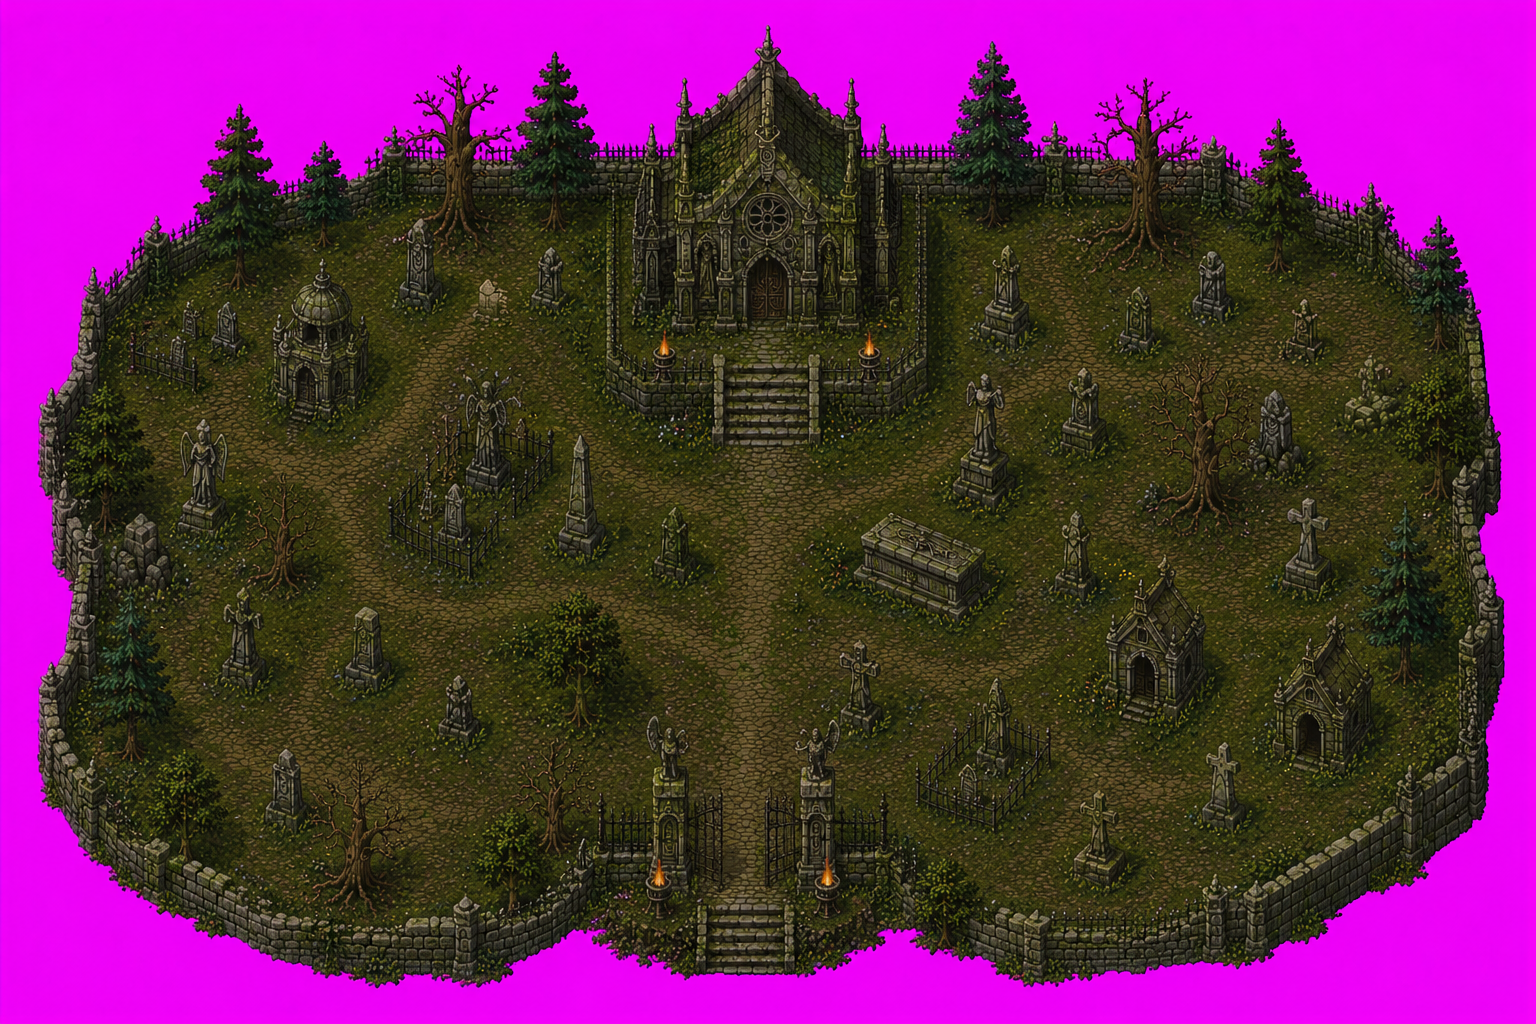
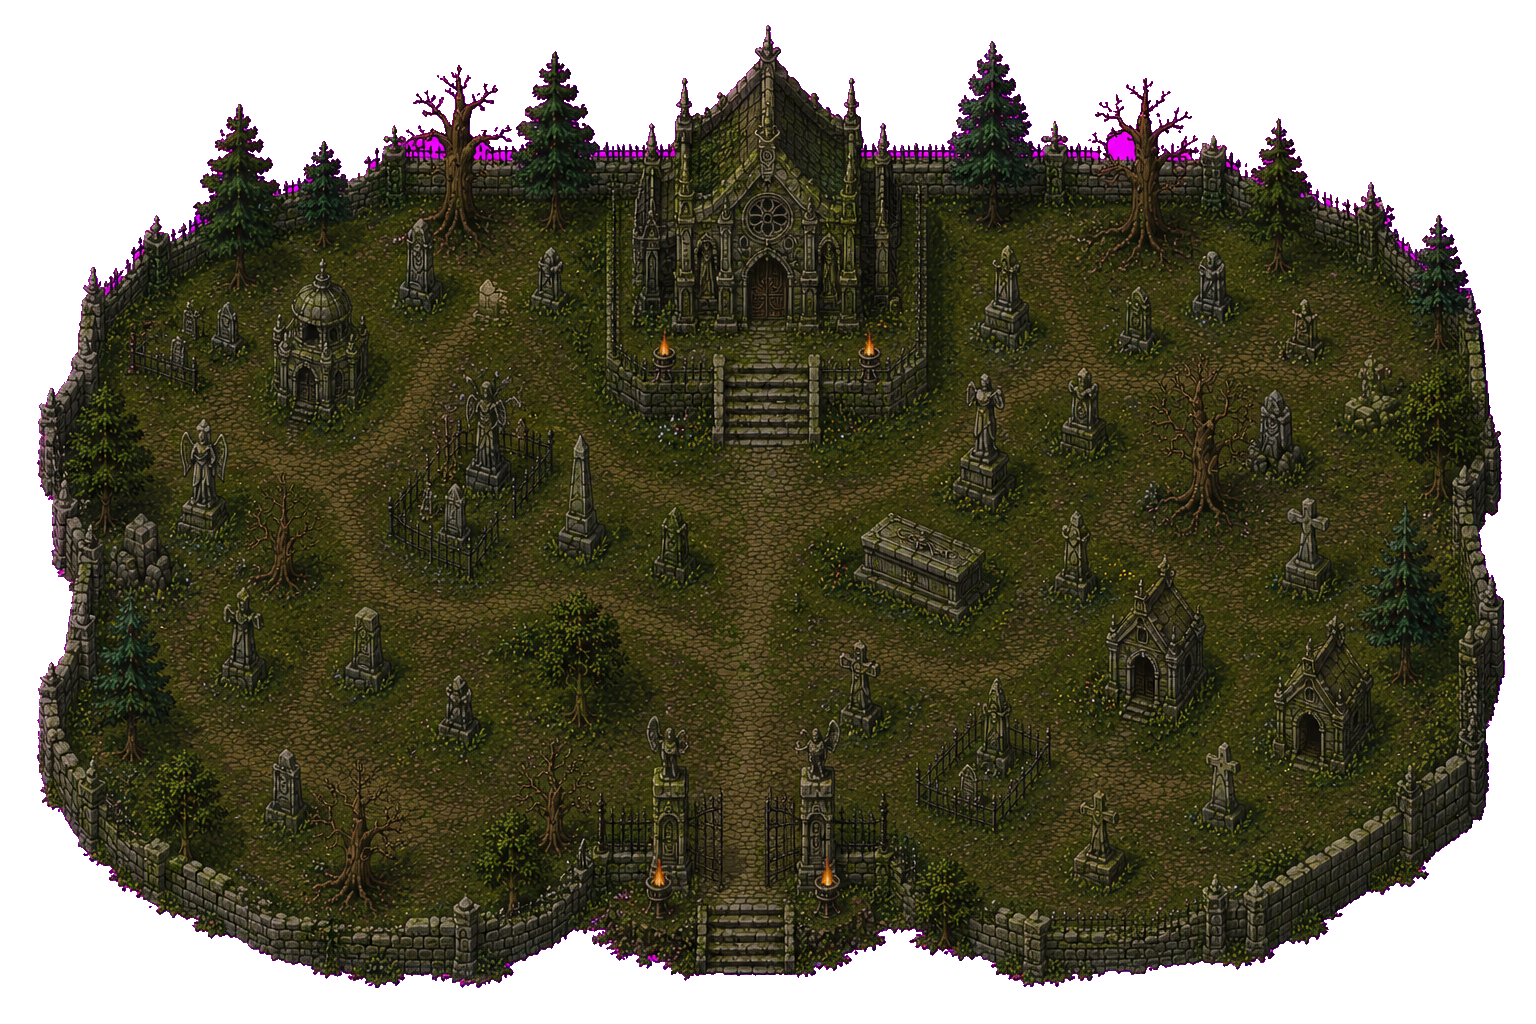
v0.13.2 — magenta, iniciativa, saltar turno y objetos sin conectar
- Arreglado el fondo magenta del cementerio (margen sin pintar)
- Bajada la barra de iniciativa para que no se solape con el botón de reiniciar
- Saltar turno avisa siempre y no se puede pulsar dos veces mientras actúan los NPCs
- Rehecho el botón "Saltar turno" sin deformación
- Conectados 7 objetos del cementerio que no tenían evento (las trampas podían romper la partida)
- Quitado el nombre "Mercenaria"; barra de vida más grande

Changed region(s): [[0.0, 0.0, 1.0, 1.0]]

diff --git a/js/rules.js b/js/rules.js
@@ -1,13 +1,13 @@
 // Reglas del juego: economía de Puntos de Acción (PA), interacción a distancia
 // y adyacente, trampas, niebla y salida de nivel. Agnóstico del dibujo.
 
-import { state, walkable, adjacent, distTo, isVisible, recomputeFog, computeReach, pathTo, reachCost, blockingTriggerAt, trapAt, walkTriggerAt, stepNeighbors, foeAt, livingFoes, losClear } from './state.js?v=0.13.1';
-import { openEvent, openTrapCard, openStoryCard, syncHUD, syncInitiativeUI, showCombatBadge, log, gameOver } from './ui.js?v=0.13.1';
-import { t } from './i18n.js?v=0.13.1';
-import { MOVE_COST, ATTACK_COST, INITIATIVE_BASE, INITIATIVE_DIE, TURN_DELAY } from './config.js?v=0.13.1';
-import * as anim from './anim.js?v=0.13.1';
-import { ANIM_CLIPS } from './anim.js?v=0.13.1';
-import * as audio from './audio.js?v=0.13.1';
+import { state, walkable, adjacent, distTo, isVisible, recomputeFog, computeReach, pathTo, reachCost, blockingTriggerAt, trapAt, walkTriggerAt, stepNeighbors, foeAt, livingFoes, losClear } from './state.js?v=0.13.2';
+import { openEvent, openTrapCard, openStoryCard, syncHUD, syncInitiativeUI, showCombatBadge, log, gameOver } from './ui.js?v=0.13.2';
+import { t } from './i18n.js?v=0.13.2';
+import { MOVE_COST, ATTACK_COST, INITIATIVE_BASE, INITIATIVE_DIE, TURN_DELAY } from './config.js?v=0.13.2';
+import * as anim from './anim.js?v=0.13.2';
+import { ANIM_CLIPS } from './anim.js?v=0.13.2';
+import * as audio from './audio.js?v=0.13.2';
 
 const sign = (n) => Math.sign(n);
 
@@ -122,14 +122,18 @@ function showHint(tr) {
   audio.fx('ui');
 }
 
-// Una trampa se activa sola al pisarla si no ha sido desarmada antes.
+// Una trampa se activa sola al pisarla si no ha sido desarmada antes. Si por
+// lo que sea no tiene un evento conectado en events.json, usa un daño por
+// defecto y un aviso genérico en vez de reventar (mismo criterio que ya se
+// aplica a los objetos "mueble" sin evento).
 function triggerTrap(trap) {
   const ev = state.events[trap.id];
-  const dmg = ev.trapDmg || 4;
+  const dmg = (ev && ev.trapDmg) || 4;
   trap.used = true;
   anim.hurt('hero', 'hero'); anim.floatAt(state.hero.x, state.hero.y, `−${dmg}`, '#e86a5c'); audio.fx('hurt');
   state.hero.hp -= dmg;
-  log(`<b>${t(ev.i18n + '.kicker')}</b> — ${t(ev.i18n + '.text')}`);
+  if (ev) log(`<b>${t(ev.i18n + '.kicker')}</b> — ${t(ev.i18n + '.text')}`);
+  else log(t('log.noEventYet'));
   syncHUD();
   if (state.hero.hp <= 0) gameOver('lose');
 }
@@ -162,19 +166,21 @@ function revealTrapsNear(x, y) {
 export function attemptDisarm(trap) {
   const { hero } = state;
   const ev = state.events[trap.id];
-  const cost = ev.actionCost || 1;
+  const cost = (ev && ev.actionCost) || 1;
   if (hero.ap < cost) { log(t('log.noAP')); state.busy = false; return; }
   hero.ap -= cost; syncHUD();
   anim.activateAnim('hero', 'hero');
   if (Math.random() < 0.5) {
     trap.used = true;
     audio.fx('ui');
-    log(`<b>${t(ev.i18n + '.kicker')}</b> — ${t(ev.i18n + '.disarmSuccess')}`);
+    if (ev) log(`<b>${t(ev.i18n + '.kicker')}</b> — ${t(ev.i18n + '.disarmSuccess')}`);
+    else log(t('log.noEventYet'));
   } else {
-    const dmg = Math.round((ev.trapDmg || 4) / 2);
+    const dmg = Math.round(((ev && ev.trapDmg) || 4) / 2);
     anim.hurt('hero', 'hero'); anim.floatAt(hero.x, hero.y, `−${dmg}`, '#e86a5c'); audio.fx('hurt');
     hero.hp -= dmg;
-    log(`<b>${t(ev.i18n + '.kicker')}</b> — ${t(ev.i18n + '.disarmFail', { dmg })}`);
+    if (ev) log(`<b>${t(ev.i18n + '.kicker')}</b> — ${t(ev.i18n + '.disarmFail', { dmg })}`);
+    else log(t('log.noEventYet'));
   }
   syncHUD();
   state.busy = false;

diff --git a/css/styles.css b/css/styles.css
@@ -21,10 +21,9 @@ body{
   display:flex; flex-direction:column; gap:6px; width:max-content; }
 .hudrow{ display:flex; gap:8px; align-items:stretch; padding:8px 10px;
   background:rgba(26,30,39,.82); border:1px solid var(--steel); border-radius:6px; backdrop-filter:blur(3px); cursor:pointer; }
-.hud .who{ display:flex; flex-direction:column; gap:4px; min-width:92px; }
-.hud .name{ font-size:11px; letter-spacing:.12em; text-transform:uppercase; color:var(--bone-dim); }
+.hud .who{ display:flex; flex-direction:column; justify-content:center; gap:4px; min-width:110px; }
 .bar{ height:9px; border-radius:2px; background:#000; overflow:hidden; border:1px solid #000; position:relative; }
-.bar.hero{ height:14px; background:#000 url(../assets/ui/bar_hp_hero.png) center/100% 100% no-repeat; border:none; }
+.bar.hero{ height:26px; background:#000 url(../assets/ui/bar_hp_hero.png) center/100% 100% no-repeat; border:none; }
 .bar.foe { background:#000 url(../assets/ui/bar_hp_foe.png) center/100% 100% no-repeat; border:none; }
 .bar > span{ display:block; height:100%; transition:width .25s ease; }
 /* La barra siempre muestra el arte completo (cuero+metal+relleno rojo); lo que
@@ -36,6 +35,7 @@ body{
   background:linear-gradient(to left, rgba(3,4,7,.95), rgba(3,4,7,.55)); }
 .bar .hptext{ position:absolute; inset:0; display:flex; align-items:center; justify-content:center; background:none;
   font-size:9px; line-height:1; color:#fff; text-shadow:0 1px 1px rgba(0,0,0,.85); pointer-events:none; }
+.bar.hero .hptext{ font-size:14px; font-weight:600; }
 .stat{ display:flex; align-items:center; gap:5px; font-size:13px; padding-left:10px; border-left:1px solid var(--steel); }
 .stat b{ color:var(--gold); font-weight:600; }
 .goldIcon{ width:16px; height:16px; object-fit:contain; }
@@ -44,17 +44,22 @@ body{
 .pip.on{ background-image:url(../assets/ui/pip_on.png); }
 
 /* Botón de turno: justo debajo de la vida, ancho completo del HUD. El asset
-   (skipturn_bar.png) tiene un remate ornamentado en los extremos y una parte
-   central lisa; con "background-size:100% 100%" el remate se deformaba (se
-   veía estirado/aplastado, sobre todo a la izquierda). Con border-image en
-   3 partes, los extremos mantienen su proporción y solo la parte central
-   lisa se estira para rellenar el ancho que haga falta. */
-.skipturn{ width:100%; color:var(--bone);
+   (skipturn_bar.png) tiene un remate ornamentado en cada extremo y una parte
+   central lisa. Con "background-size:100% 100%" el remate se deformaba (se
+   veía estirado/aplastado). Con border-image tampoco quedó del todo bien.
+   Solución robusta: dos pseudo-elementos (uno por extremo) con la imagen
+   ENTERA escalada una sola vez, preservando su proporción real, a la altura
+   del botón — cada uno solo "asoma" su propia ventana de 38px por su lado
+   (izquierda/derecha), así que el remate nunca se deforma, mires donde mires.
+   El centro se queda como placa lisa (el texto no necesita más adorno ahí). */
+.skipturn{ position:relative; width:100%; color:var(--bone);
   background:linear-gradient(rgba(9,10,14,.35),rgba(9,10,14,.35));
-  border-style:solid; border-color:transparent; border-width:0 34px;
-  border-image:url(../assets/ui/skipturn_bar.png) fill 0 110 0 110 / 0 34px / 0 stretch;
-  border-radius:6px; backdrop-filter:blur(3px);
-  font:inherit; font-size:12.5px; letter-spacing:.04em; padding:8px 10px; cursor:pointer; }
+  border:1px solid rgba(70,55,30,.8); border-radius:6px; backdrop-filter:blur(3px);
+  font:inherit; font-size:12.5px; letter-spacing:.04em; padding:8px 46px; cursor:pointer; }
+.skipturn::before, .skipturn::after{ content:''; position:absolute; top:1px; bottom:1px; width:38px;
+  background-image:url(../assets/ui/skipturn_bar.png); background-repeat:no-repeat; background-size:auto 100%; }
+.skipturn::before{ left:1px; background-position:left center; border-radius:5px 0 0 5px; }
+.skipturn::after{ right:1px; background-position:right center; border-radius:0 5px 5px 0; }
 .skipturn:hover{ border-color:var(--ember); color:var(--ember); }
 
 /* Cajas individuales de vida de enemigo, una por enemigo vivo, bajo "Fin de turno". */
@@ -97,7 +102,7 @@ body.layout-edit .layoutApplyBtn{ display:block; }
 
 /* Barra de iniciativa: retratos en fila horizontal, arriba a la derecha,
    debajo del botón de reiniciar. El que le toca actuar se resalta. */
-.initiativeBar{ top:calc(max(10px,env(safe-area-inset-top)) + 42px); right:10px;
+.initiativeBar{ top:calc(max(10px,env(safe-area-inset-top)) + 72px); right:10px;
   display:none; gap:5px; padding:5px; background:rgba(26,30,39,.82); border:1px solid var(--steel);
   border-radius:6px; backdrop-filter:blur(3px); }
 .initiativeBar.show{ display:flex; }

diff --git a/js/main.js b/js/main.js
@@ -1,15 +1,15 @@
 // Punto de entrada. Carga idioma y datos, cablea módulos y arranca el bucle.
 
-import { state, initGame } from './state.js?v=0.13.1';
-import { initRenderer, startLoop, centerOnHero, toggleGrid, isGridOn } from './render.js?v=0.13.1';
-import { onTapTile, bindDescend, startHeroTurn, endHeroTurn, afterInteract, attemptDisarm } from './rules.js?v=0.13.1';
-import { syncHUD, log, hideVeil, bindAfterInteract, bindRestart, bindAttemptDisarm, applyStaticText } from './ui.js?v=0.13.1';
-import { loadAssets } from './assets.js?v=0.13.1';
-import { initialLang, loadLang, onLangChange, getLang, t } from './i18n.js?v=0.13.1';
-import * as anim from './anim.js?v=0.13.1';
-import * as audio from './audio.js?v=0.13.1';
-import { VERSION } from './config.js?v=0.13.1';
-import { assemble } from './mapgen.js?v=0.13.1';
+import { state, initGame } from './state.js?v=0.13.2';
+import { initRenderer, startLoop, centerOnHero, toggleGrid, isGridOn } from './render.js?v=0.13.2';
+import { onTapTile, bindDescend, startHeroTurn, endHeroTurn, afterInteract, attemptDisarm, isAITurnActive } from './rules.js?v=0.13.2';
+import { syncHUD, log, hideVeil, bindAfterInteract, bindRestart, bindAttemptDisarm, applyStaticText } from './ui.js?v=0.13.2';
+import { loadAssets } from './assets.js?v=0.13.2';
+import { initialLang, loadLang, onLangChange, getLang, t } from './i18n.js?v=0.13.2';
+import * as anim from './anim.js?v=0.13.2';
+import * as audio from './audio.js?v=0.13.2';
+import { VERSION } from './config.js?v=0.13.2';
+import { assemble } from './mapgen.js?v=0.13.2';
 
 // El ensamblador de losetas (mapgen.js) sigue disponible para niveles ALEATORIOS
 // futuros; esta función queda de reserva pero no se usa por ahora, ya que el
@@ -106,7 +106,7 @@ async function boot() {
   // --- controles ---
   document.getElementById('reset').addEventListener('click', newGame);
   document.getElementById('endTurn').addEventListener('click', () => {
-    if (!state.busy) endHeroTurn();
+    if (!state.busy && !isAITurnActive()) { log(t('log.turnSkipped')); endHeroTurn(); }
   });
   document.getElementById('recenter').addEventListener('click', () => centerOnHero(false));
   document.getElementById('hudRow').addEventListener('click', () => centerOnHero(false));

diff --git a/js/ui.js b/js/ui.js
@@ -1,13 +1,13 @@
 // Capa DOM: HUD (con PA), cartas de evento, registro, fin de partida y ajustes.
 // Todo el texto visible pasa por t() (multiidioma). No dibuja en el canvas.
 
-import { state } from './state.js?v=0.13.1';
-import { t } from './i18n.js?v=0.13.1';
-import * as anim from './anim.js?v=0.13.1';
-import { IDLE_NAME } from './anim.js?v=0.13.1';
-import * as audio from './audio.js?v=0.13.1';
-import { VERSION } from './config.js?v=0.13.1';
-import { images, SPRITE_TILE } from './assets.js?v=0.13.1';
+import { state } from './state.js?v=0.13.2';
+import { t } from './i18n.js?v=0.13.2';
+import * as anim from './anim.js?v=0.13.2';
+import { IDLE_NAME } from './anim.js?v=0.13.2';
+import * as audio from './audio.js?v=0.13.2';
+import { VERSION } from './config.js?v=0.13.2';
+import { images, SPRITE_TILE } from './assets.js?v=0.13.2';
 
 let afterInteract = () => {};
 let restart = () => {};
@@ -180,8 +180,9 @@ function renderStoryCard(card, ev) {
 }
 
 function renderTrapCard(card, trap) {
-  const ev = state.events[trap.id];
-  const b = ev.i18n;
+  const ev = state.events[trap.id] || state.events.trampa;
+  const b = ev ? ev.i18n : null;
+  if (!b) { card.innerHTML = `<p>${t('log.noEventYet')}</p>`; return; }
   card.innerHTML =
     `<div class="kicker">${t(b + '.kicker')}</div>
      <h2>${t(b + '.disarmTitle')}</h2>
@@ -235,7 +236,6 @@ function renderOver(card, kind) {
 
 // Aplica los textos estáticos (y re-renderiza lo abierto). Se llama al cambiar idioma.
 export function applyStaticText() {
-  $('heroName').textContent = t('hud.hero');
   $('reset').title = t('btn.reset');
   $('gridBtn').title = t('btn.grid');
   $('endTurn').textContent = t('btn.endturn');

diff --git a/js/render.js b/js/render.js
@@ -7,11 +7,11 @@
 // La altura de cada casilla se pinta con un tinte y, en los escalones, un
 // borde de color: VERDE en el lado alto, ROJO en el lado bajo (estilo Descent).
 
-import { state, elevAt, pathTo, foeAt, blockingTriggerAt, adjacent } from './state.js?v=0.13.1';
-import { isAITurnActive } from './rules.js?v=0.13.1';
-import { TILE, CAMERA_MARGIN, ZOOM_MIN, ZOOM_MAX, ZOOM_DEFAULT, TOKEN_TALL, HERO_TALL, PROP_TALL } from './config.js?v=0.13.1';
-import { images, ATLAS_TILE, SPRITE_TILE } from './assets.js?v=0.13.1';
-import * as anim from './anim.js?v=0.13.1';
+import { state, elevAt, pathTo, foeAt, blockingTriggerAt, adjacent } from './state.js?v=0.13.2';
+import { isAITurnActive } from './rules.js?v=0.13.2';
+import { TILE, CAMERA_MARGIN, ZOOM_MIN, ZOOM_MAX, ZOOM_DEFAULT, TOKEN_TALL, HERO_TALL, PROP_TALL } from './config.js?v=0.13.2';
+import { images, ATLAS_TILE, SPRITE_TILE } from './assets.js?v=0.13.2';
+import * as anim from './anim.js?v=0.13.2';
 
 // Algunos artes vienen dibujados mirando a la izquierda de serie (en vez de a
 // la derecha, que es lo que se asume en el resto del código al calcular hacia

diff --git a/index.html b/index.html
@@ -14,7 +14,7 @@
 <meta http-equiv="Pragma" content="no-cache">
 <meta http-equiv="Expires" content="0">
 <title>Cripta</title>
-<link rel="stylesheet" href="./css/styles.css?v=0.13.1">
+<link rel="stylesheet" href="./css/styles.css?v=0.13.2">
 </head>
 <body>
 <div id="game">
@@ -23,7 +23,7 @@
   <!-- HUD (arriba-izquierda). Tocar la fila superior recentra la cámara. -->
   <div class="ui hud" id="hud">
     <div class="hudrow" id="hudRow">
-      <div class="who"><span class="name" id="heroName"></span>
+      <div class="who">
         <div class="bar hero"><span class="fill" id="hpHero" style="width:100%"></span><span class="hptext" id="hpHeroText"></span></div></div>
       <div class="stat"><img class="goldIcon" src="./assets/ui/gold_icon.png" alt=""> <b id="gold">0</b></div>
       <div class="ap" id="apPips"></div>
@@ -100,6 +100,6 @@
   </div>
 </div>
 
-<script type="module" src="./js/main.js?v=0.13.1"></script>
+<script type="module" src="./js/main.js?v=0.13.2"></script>
 </body>
 </html>

diff --git a/js/anim.js b/js/anim.js
@@ -6,7 +6,7 @@
 //     (paz/combate) que cambian solas según haya un enemigo cerca, con una transición.
 // Además: sacudida al recibir daño y números flotantes (daño/curación).
 
-import { TILE } from './config.js?v=0.13.1';
+import { TILE } from './config.js?v=0.13.2';
 
 const D_MOVE = 170;
 const D_ATTACK_LEGACY = 220;

diff --git a/js/assets.js b/js/assets.js
@@ -6,7 +6,7 @@
 // Qué claves tienen animaciones de verdad se define en ANIM_CLIPS (anim.js);
 // aquí solo hace falta indicar dónde está cada hoja.
 
-import { VERSION } from './config.js?v=0.13.1';
+import { VERSION } from './config.js?v=0.13.2';
 
 export const ATLAS_TILE = 128;  // px por celda en el tileset fuente (dungeon.png)
 export const SPRITE_TILE = 128; // px por fotograma en las hojas de sprites

diff --git a/js/audio.js b/js/audio.js
@@ -2,7 +2,7 @@
 // usan un pitido suave sintetizado. De fondo: ambiente de bosque en bucle + ulular
 // de búho de vez en cuando. En móvil el sonido solo arranca tras tocar -> unlock().
 
-import { VERSION } from './config.js?v=0.13.1';
+import { VERSION } from './config.js?v=0.13.2';
 
 let ctx, master, fxGain, ambGain;
 let ambSource = null, owlTimer = null;

diff --git a/js/config.js b/js/config.js
@@ -38,4 +38,4 @@ export const INITIATIVE_BASE = {
 export const TURN_DELAY = 1000;  // ms de pausa entre el fin de un turno y el siguiente (héroe y NPCs)
 
 // --- versión (fuente única; también se usa para el cache-busting de assets) ---
-export const VERSION = '0.13.1';
+export const VERSION = '0.13.2';

diff --git a/js/i18n.js b/js/i18n.js
@@ -2,7 +2,7 @@
 // t('log.hitFoe', { dmg: 6 })  ->  "Golpeas al acechador. −6"
 // Ningún texto visible debe estar en el código: todo pasa por aquí.
 
-import { VERSION } from './config.js?v=0.13.1';
+import { VERSION } from './config.js?v=0.13.2';
 
 let dict = {};
 let current = 'es';

diff --git a/js/state.js b/js/state.js
@@ -2,7 +2,7 @@
 // Incluye niebla de guerra (explored/visible) y el alcance de movimiento
 // ligado a los Puntos de Acción (PA) restantes del héroe.
 
-import { SIGHT, SIGHT_DIM, AP_MAX, CLIMB_COST, MAX_CLIMB, DIFFICULT_EXTRA } from './config.js?v=0.13.1';
+import { SIGHT, SIGHT_DIM, AP_MAX, CLIMB_COST, MAX_CLIMB, DIFFICULT_EXTRA } from './config.js?v=0.13.2';
 
 export const state = {
   cols: 0, rows: 0,